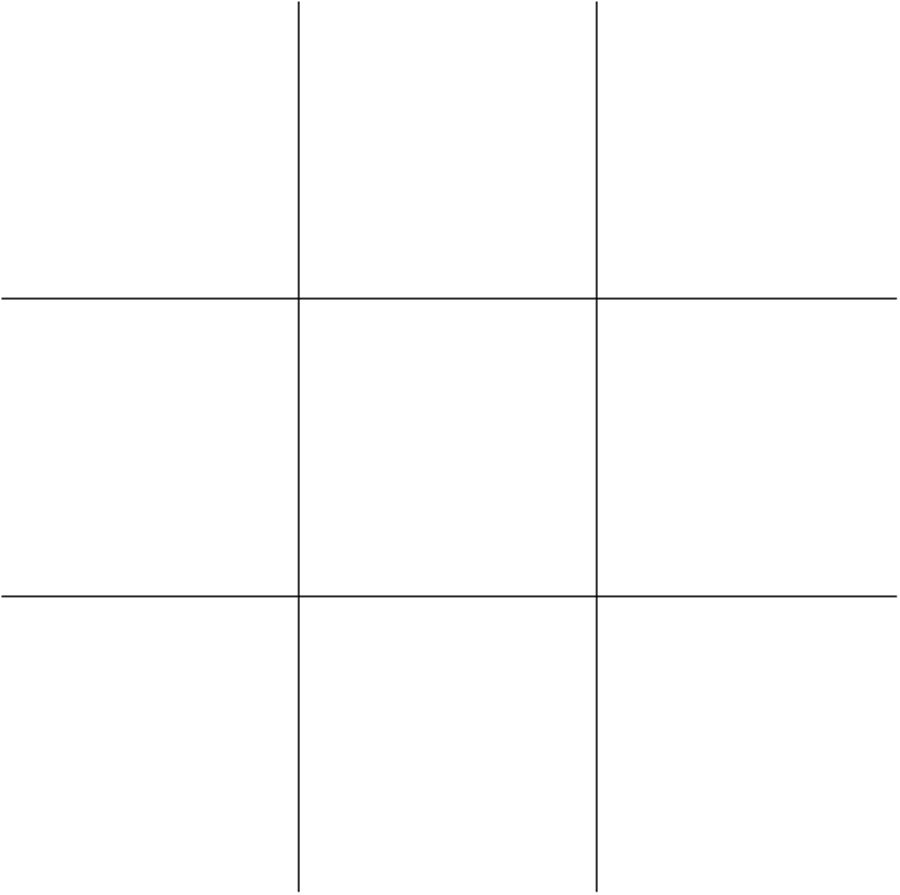
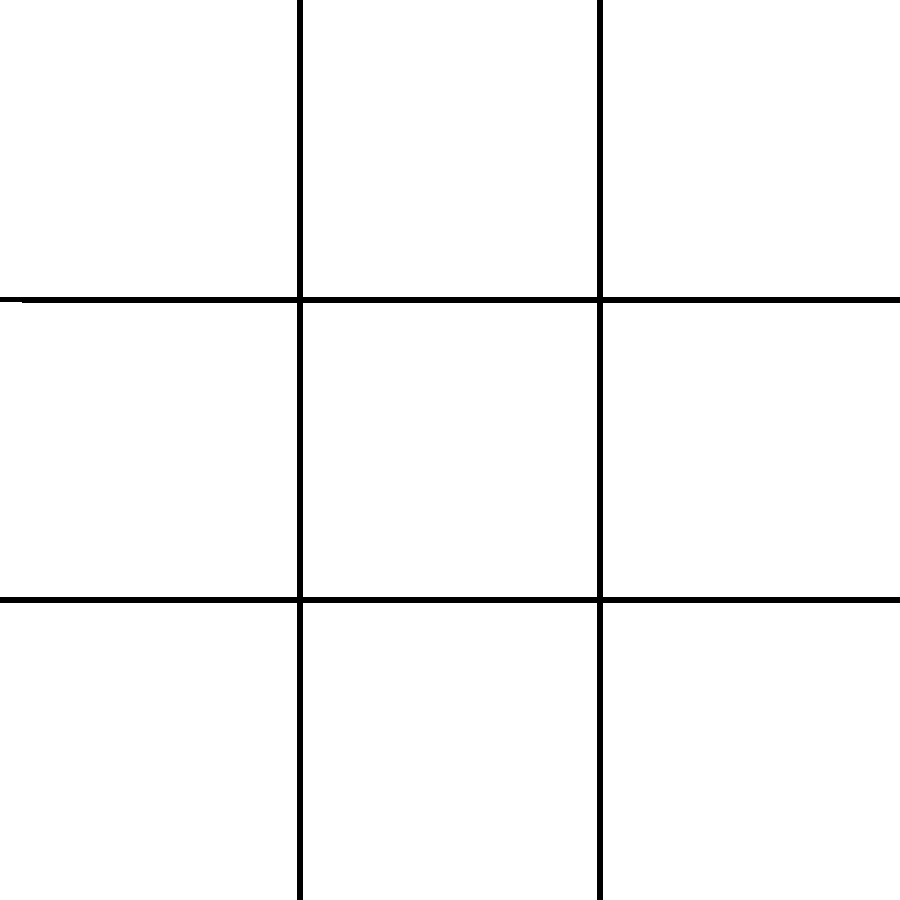
new board images

Changed region(s): [[0.0, 0.0, 1.0, 1.0]]

diff --git a/style.css b/style.css
@@ -1,6 +1,6 @@
 .gameboard {
 	background-image: url('gameboard.png');
-	background-size: 600px 600px;
+	background-size: 630px 630px;
 	width: 630px;
 	height: 630px;
 	margin: auto;
